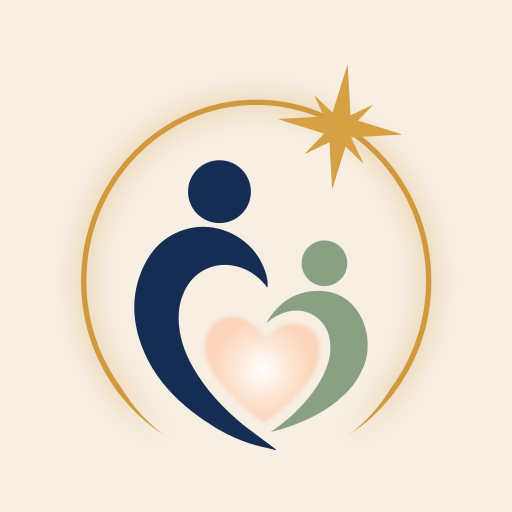
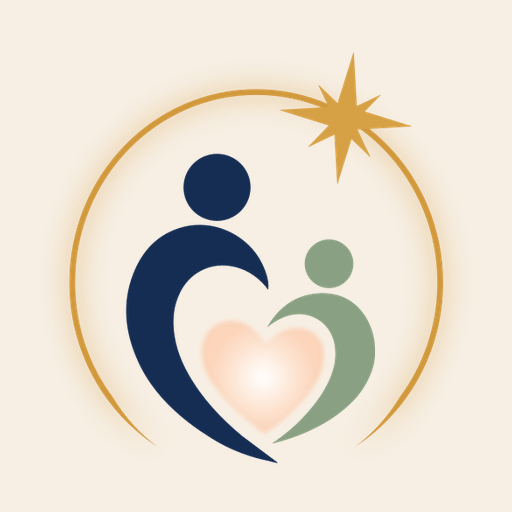
feat: refresh social sharing identity
Copilot-Session: 61a253b2-afe4-4330-ac30-91d829813120

diff --git a/src/pages/rss.xml.ts b/src/pages/rss.xml.ts
@@ -47,7 +47,7 @@ export const GET: APIRoute = async () => {
     `<lastBuildDate>${latestDate.toUTCString()}</lastBuildDate>`,
     `<atom:link href="${escapeXml(`${SITE.domain}/rss.xml`)}" rel="self" type="application/rss+xml" />`,
     '<image>',
-    `<url>${escapeXml(`${SITE.domain}/og-default.png`)}</url>`,
+    `<url>${escapeXml(`${SITE.domain}${SITE.socialImage}`)}</url>`,
     `<title>${escapeXml(SITE.name)}</title>`,
     `<link>${escapeXml(`${SITE.domain}/`)}</link>`,
     '</image>',

diff --git a/src/site.config.ts b/src/site.config.ts
@@ -18,6 +18,7 @@ export const SITE = {
   disambiguatingDescription:
     'Independent pediatric primary care practice in McKinney, Texas, operated by Luma Physician Group PLLC.',
   domain: 'https://www.lumapediatrics.com',
+  socialImage: '/og-luma-pediatrics-2026-09.png',
 
   /**
    * Provider-detail visibility flag.
